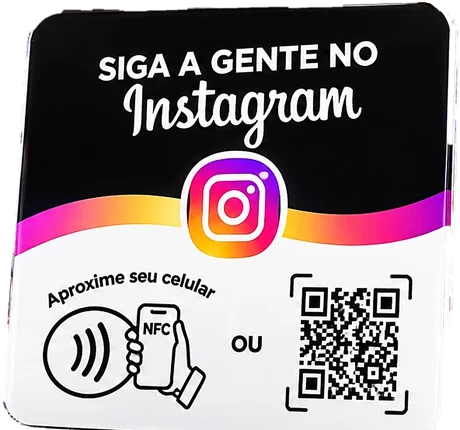
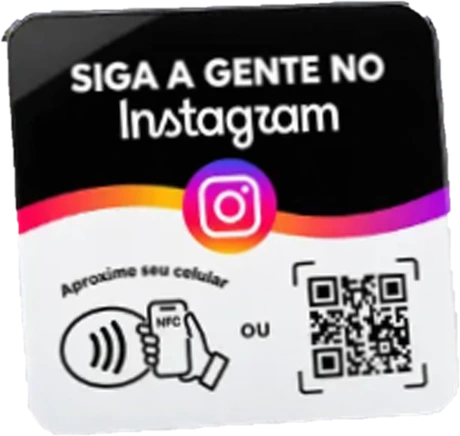
Troca a placa preta do Instagram pela versao nova
Claude-Session: https://claude.ai/code/session_014vRRhBBp14td4BXrtKCQVE

diff --git a/index.html b/index.html
@@ -292,7 +292,7 @@ body::after{content:"";position:fixed;inset:0;pointer-events:none;z-index:30;opa
       <figure class="float"><img class="tilt" src="img/placa-azul.webp" alt="Placa NFC de avaliação do Google, azul"><figcaption>Google · azul</figcaption></figure>
       <figure class="float"><img class="tilt" src="img/placa-preta.webp" alt="Placa NFC de avaliação do Google, preta"><figcaption>Google · preta</figcaption></figure>
       <figure class="float"><img class="tilt" src="img/placa-insta-rosa.webp" alt="Placa NFC do Instagram, rosa"><figcaption>Instagram · rosa</figcaption></figure>
-      <figure class="float"><img class="tilt" src="img/placa-insta-preta.webp" alt="Placa NFC do Instagram, preta"><figcaption>Instagram · preta</figcaption></figure>
+      <figure class="float"><img class="tilt" src="img/placa-insta-preta.webp?v=2" alt="Placa NFC do Instagram, preta"><figcaption>Instagram · preta</figcaption></figure>
     </div>
   </div>
 </section>
